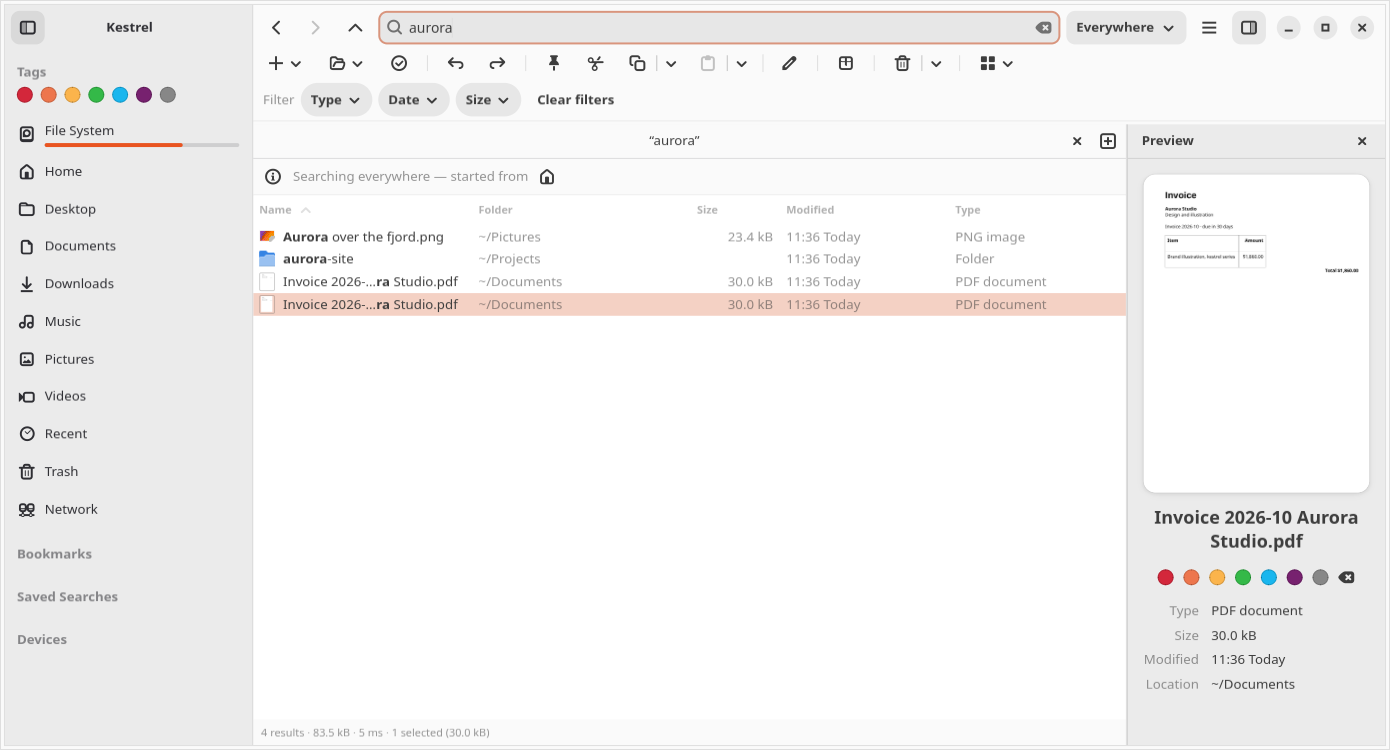
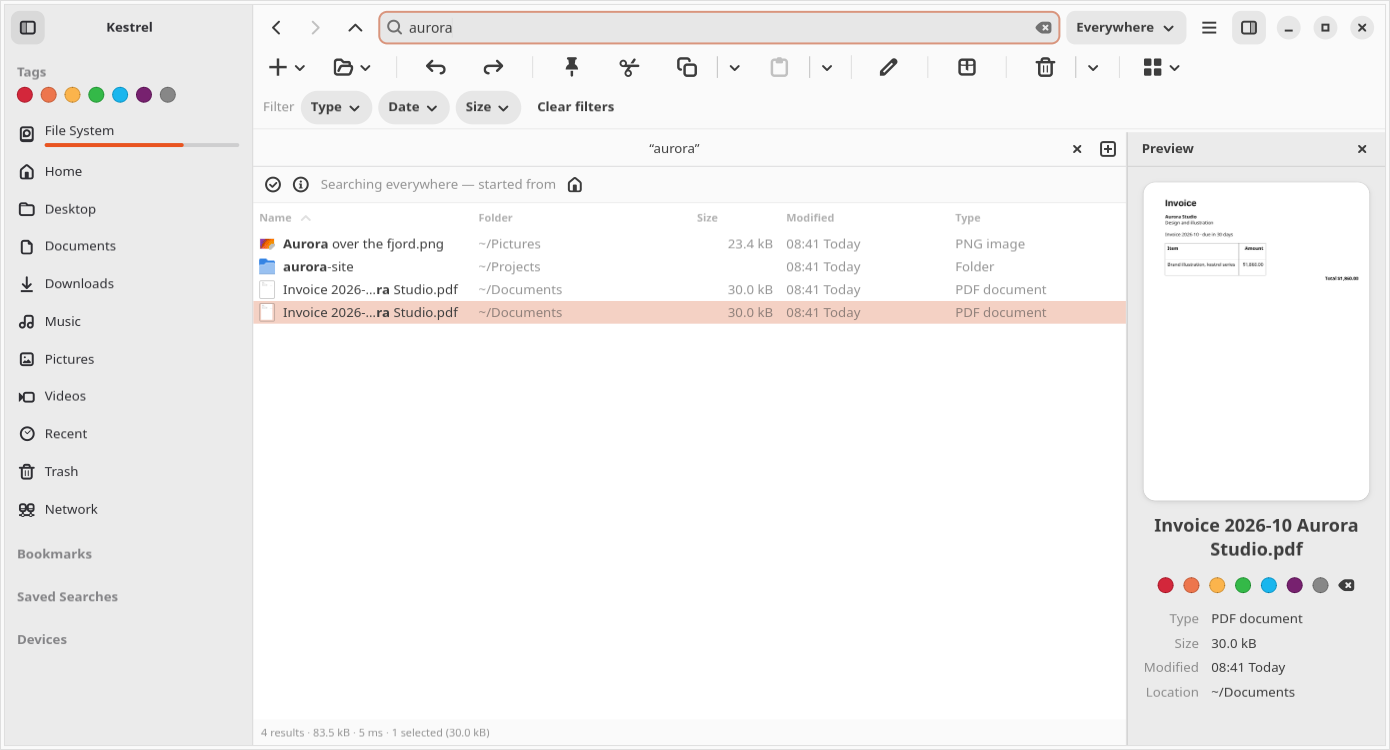
0.9.33: Select moves to the location bar; release download
Select (with All / None / Invert while on) now sits left of Properties at
the start of each pane's location bar and leaves the command bar, so the
large bar is back from 1140 sp. The select-mode feature test turns it on
with that button. README: screenshots refreshed, install from the GitHub
release. Package maintainer uses the GitHub no-reply address.

diff --git a/crates/kestrel/src/window/mod.rs b/crates/kestrel/src/window/mod.rs
@@ -83,9 +83,8 @@ pub fn new_menu() -> gio::Menu {
 
 /// Command-bar sizes by the bar's own width (sp), smallest first: (from this width, CSS size class).
 /// Below the first: two compact rows. One row measures 583 px compact, 783 normal, 1081 large; each
-/// step leaves room for Extract or Select's All / None / Invert (three more buttons: ~150 px large, so
-/// at 1140 Select mode pushed View off the end; anything that still doesn't fit scrolls).
-const BAR_SIZES: [(u32, &str); 3] = [(630, "compact"), (840, ""), (1250, "large")];
+/// step leaves room for Extract; anything that still doesn't fit scrolls.
+const BAR_SIZES: [(u32, &str); 3] = [(630, "compact"), (840, ""), (1140, "large")];
 
 pub struct Pane {
     pub root: gtk::Box,
@@ -425,9 +424,9 @@ impl Win {
 
         // command bar, after Windows Explorer's Home ribbon (Alex's order), icons only with each name
         // (and shortcut) as its tooltip:
-        //   New, Open, Select | Undo, Redo | Pin, Cut, Copy, Paste ‖ Rename | Compress, Extract | Delete | View
+        //   New, Open | Undo, Redo | Pin, Cut, Copy, Paste ‖ Rename | Compress, Extract | Delete | View
         // Buttons follow their actions, so update_actions greys them out to suit the selection.
-        // Properties lives at the start of each pane's location bar.
+        // Select and Properties live at the start of each pane's location bar.
         let rows = [
             gtk::Box::builder().spacing(2).css_classes(["toolbar"]).build(),
             gtk::Box::builder().spacing(2).css_classes(["toolbar"]).build(),
@@ -476,20 +475,6 @@ impl Win {
                 ("Open in Terminal", "win.terminal"),
             ]),
         ));
-        // Select: checkboxes on every item; All / None / Invert while it's on
-        let select = gtk::ToggleButton::builder().icon_name("selection-mode-symbolic").action_name("win.select-mode").build();
-        named(select.upcast_ref(), "Select (checkboxes)");
-        r.append(&select);
-        for (icon, action, tip) in [
-            ("edit-select-all-symbolic", "win.select-all", "Select all (Ctrl+A)"),
-            ("edit-clear-all-symbolic", "win.select-none", "Select none (Ctrl+Shift+A)"),
-            ("object-flip-horizontal-symbolic", "win.invert-selection", "Invert selection (Ctrl+Shift+I)"),
-        ] {
-            let b = gtk::Button::builder().icon_name(icon).action_name(action).css_classes(["flat"]).build();
-            named(b.upcast_ref(), tip);
-            select.bind_property("active", &b, "visible").sync_create().build();
-            r.append(&b);
-        }
         r.append(&sep());
         r.append(&button("edit-undo-symbolic", "win.undo", "Undo (Ctrl+Z)"));
         r.append(&button("edit-redo-symbolic", "win.redo", "Redo (Ctrl+Shift+Z)"));

diff --git a/crates/kestrel/src/browser/mod.rs b/crates/kestrel/src/browser/mod.rs
@@ -476,6 +476,23 @@ impl Browser {
             .propagate_natural_height(true)
             .build();
         let crumb_row = gtk::Box::new(gtk::Orientation::Horizontal, 0);
+        // Select: checkboxes on every item; All / None / Invert while it's on
+        let select = gtk::ToggleButton::builder()
+            .icon_name("selection-mode-symbolic")
+            .action_name("win.select-mode")
+            .tooltip_text("Select (checkboxes)")
+            .css_classes(["flat", "crumb"])
+            .build();
+        crumb_row.append(&select);
+        for (icon, action, tip) in [
+            ("edit-select-all-symbolic", "win.select-all", "Select all (Ctrl+A)"),
+            ("edit-clear-all-symbolic", "win.select-none", "Select none (Ctrl+Shift+A)"),
+            ("object-flip-horizontal-symbolic", "win.invert-selection", "Invert selection (Ctrl+Shift+I)"),
+        ] {
+            let b = gtk::Button::builder().icon_name(icon).action_name(action).tooltip_text(tip).css_classes(["flat", "crumb"]).build();
+            select.bind_property("active", &b, "visible").sync_create().build();
+            crumb_row.append(&b);
+        }
         // Properties of the selection, or of this folder when nothing is selected
         crumb_row.append(
             &gtk::Button::builder()

diff --git a/scripts/feature-test.py b/scripts/feature-test.py
@@ -719,7 +719,7 @@ def _():
     eventually(lambda: "text/markdown=ft-open.desktop" in default(), "FT Open the default again")
 
 
-@test("command bar: icons only, each named by its tooltip; Properties sits in the location bar")
+@test("command bar: icons only, each named by its tooltip; Select and Properties sit in the location bar")
 def _():
     start(D)
     for tip in ["Cut (Ctrl+X)", "Copy (Ctrl+C)", "Paste (Ctrl+V)", "Undo (Ctrl+Z)", "Redo (Ctrl+Shift+Z)",
@@ -759,10 +759,12 @@ def tick(box):
     dpy.sync(); time.sleep(0.6)
 
 
-@test("select mode: checkboxes add to the selection one by one")
+@test("select mode: the location bar's Select button puts a checkbox on every item")
 def _():
     start(D)
-    palette("select mode")
+    b = wait(lambda: all_("toggle button", "Select (checkboxes)")[0], "the location bar's Select button")
+    if not activate(b):
+        click(b)
     boxes = wait(lambda: [b for b in all_("check box") if b.get_name() == "Select"][:3], "checkboxes")
     assert len(boxes) == 3, f"{len(boxes)} checkboxes"
     tick(boxes[0]); tick(boxes[2])

diff --git a/PRD.md b/PRD.md
@@ -82,13 +82,14 @@ What carries forward unchanged: the index engine, the query language, the daemon
 - **The search box is the header's centre widget.** It's always visible: 480 px minimum, 720 px maximum, centred, and taller and more prominent than a normal entry.
 - **The breadcrumb path moves out of the header** into a location bar at the top of each pane. With dual pane on, each pane has its own path. There's still only one search box, and it acts on the active pane.
 - **A scope selector** sits next to the search box: *Everywhere* / *This folder* / *This folder only (no subfolders)*. It shows plainly what's being searched. *This folder* uses `under:` and *This folder only* uses `parent:`, so you never have to type those.
-- **Command bar** (0.9.23–0.9.30) under the header, after Windows Explorer's: New ▾, Open ▾, Select | Undo,
+- **Command bar** (0.9.23–0.9.33) under the header, after Windows Explorer's: New ▾, Open ▾ | Undo,
   Redo | Pin, Cut, Copy ▾, Paste ▾ | Rename | Compress, Extract ▾ | Delete ▾ | View ▾ (Alex's order).
   Icons only (0.9.30): each button's name and shortcut is its tooltip and its accessible name. Sizes by
-  the bar's own width (0.9.31, `BAR_SIZES`): large (20 px icons) from 1250 sp, normal from 840, compact
-  from 630, all one row; below that two compact rows split between Paste and Rename. **Properties** (ⓘ) sits
-  at the start of each pane's location bar, left of the home crumb: the selection, or the folder. Buttons grey out to suit the selection; Extract, Restore, Empty Trash and
-  Select's All / None / Invert show only while they apply.
+  the bar's own width (0.9.31, `BAR_SIZES`): large (20 px icons) from 1140 sp, normal from 840, compact
+  from 630, all one row; below that two compact rows split between Paste and Rename. **Select** (☑, with
+  All / None / Invert beside it while on) and **Properties** (ⓘ) sit at the start of each pane's location
+  bar, left of the home crumb (0.9.33); Properties acts on the selection, or the folder. Buttons grey out to
+  suit the selection; Extract, Restore and Empty Trash show only while they apply.
 - **Focus on launch:** the search box has focus when a window opens. Esc clears it, a second Esc returns to the folder, and Down moves into the results.
 
 ### 6.2 Search ↔ browse model
@@ -600,3 +601,6 @@ AND, OR (`|`), NOT (`!`), quotes, wildcards, `regex:`, `case:`, `path:`, `file:`
   covers large, compact and two rows.
 - **v0.9.32 (2026-10-28): large command bar from 1250 sp** (was 1140): with Select mode's three extra buttons
   a large bar is ~1230 px, so at 1140 View was pushed off the end. Found by the README screenshots.
+- **v0.9.33 (2026-10-29): Select moves to the location bar** (Alex), left of Properties, with All / None /
+  Invert beside it while it's on; it left the command bar, so the large size is back to 1140 sp. The
+  select-mode feature test now turns it on with that button.

diff --git a/README.md b/README.md
@@ -62,7 +62,7 @@ it happens, and pick out the one file you want the moment you ask for it.
 - `ks`: the same search on the command line, like Everything's `es.exe`
 
 **File manager**
-- A command bar like Windows Explorer's, as icons (hover for the name and shortcut): New, Open, Select, Undo, Redo, Pin, Cut, Copy, Paste, Rename, Compress, Extract, Delete, View. The buttons grow or shrink with the window to stay on one row, and only a narrow window takes two. Properties (ⓘ) sits at the start of the path bar
+- A command bar like Windows Explorer's, as icons (hover for the name and shortcut): New, Open, Undo, Redo, Pin, Cut, Copy, Paste, Rename, Compress, Extract, Delete, View. The buttons grow or shrink with the window to stay on one row, and only a narrow window takes two. Select (☑) and Properties (ⓘ) sit at the start of the path bar
 - Select mode: a checkbox on every file, so you can tick exactly the ones you want (All / None / Invert too)
 - Tabs, dual pane (F3), details / grid / column views, session restore
 - Editable path bar (Ctrl+L), bookmarks shared with GNOME Files, Trash with restore
@@ -127,7 +127,14 @@ flowchart LR
 
 ## Install
 
-Kestrel targets **Ubuntu 26.04** (amd64). Build the package and install it:
+Kestrel targets **Ubuntu 26.04** (amd64). Download the `.deb` from the
+[latest release](https://github.com/Stolly345/kestrel/releases/latest) and install it:
+
+```sh
+sudo apt install ./kestrel_*_amd64.deb
+```
+
+Or build the package yourself:
 
 ```sh
 cargo deb -p kestrel
